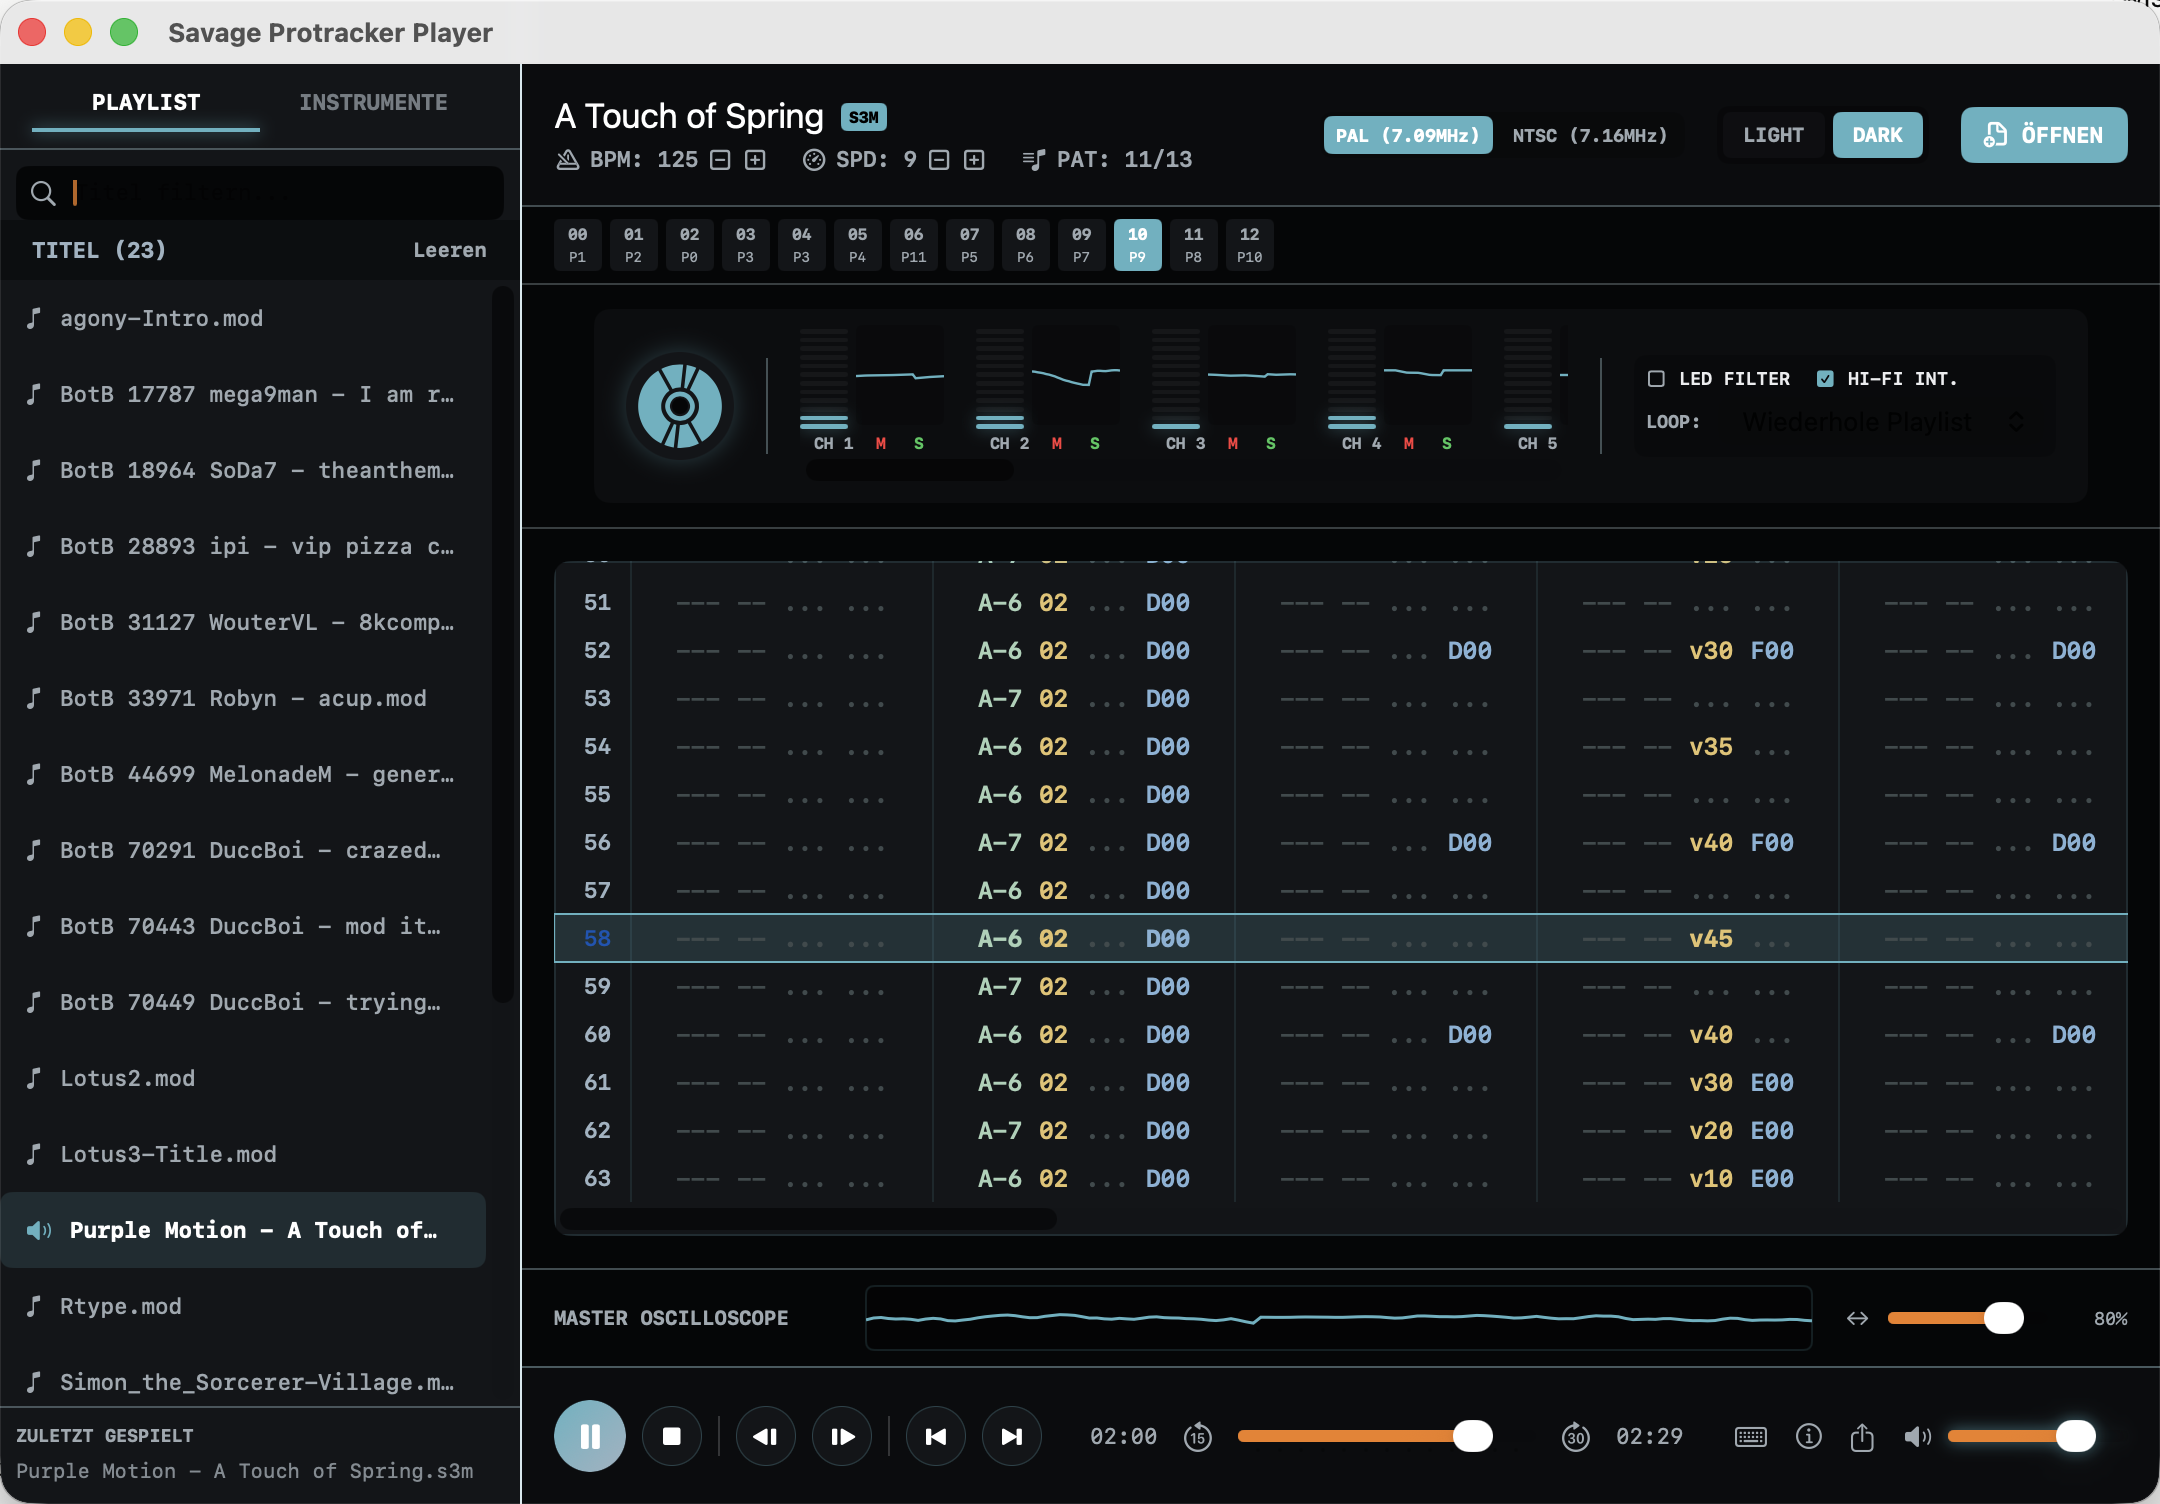
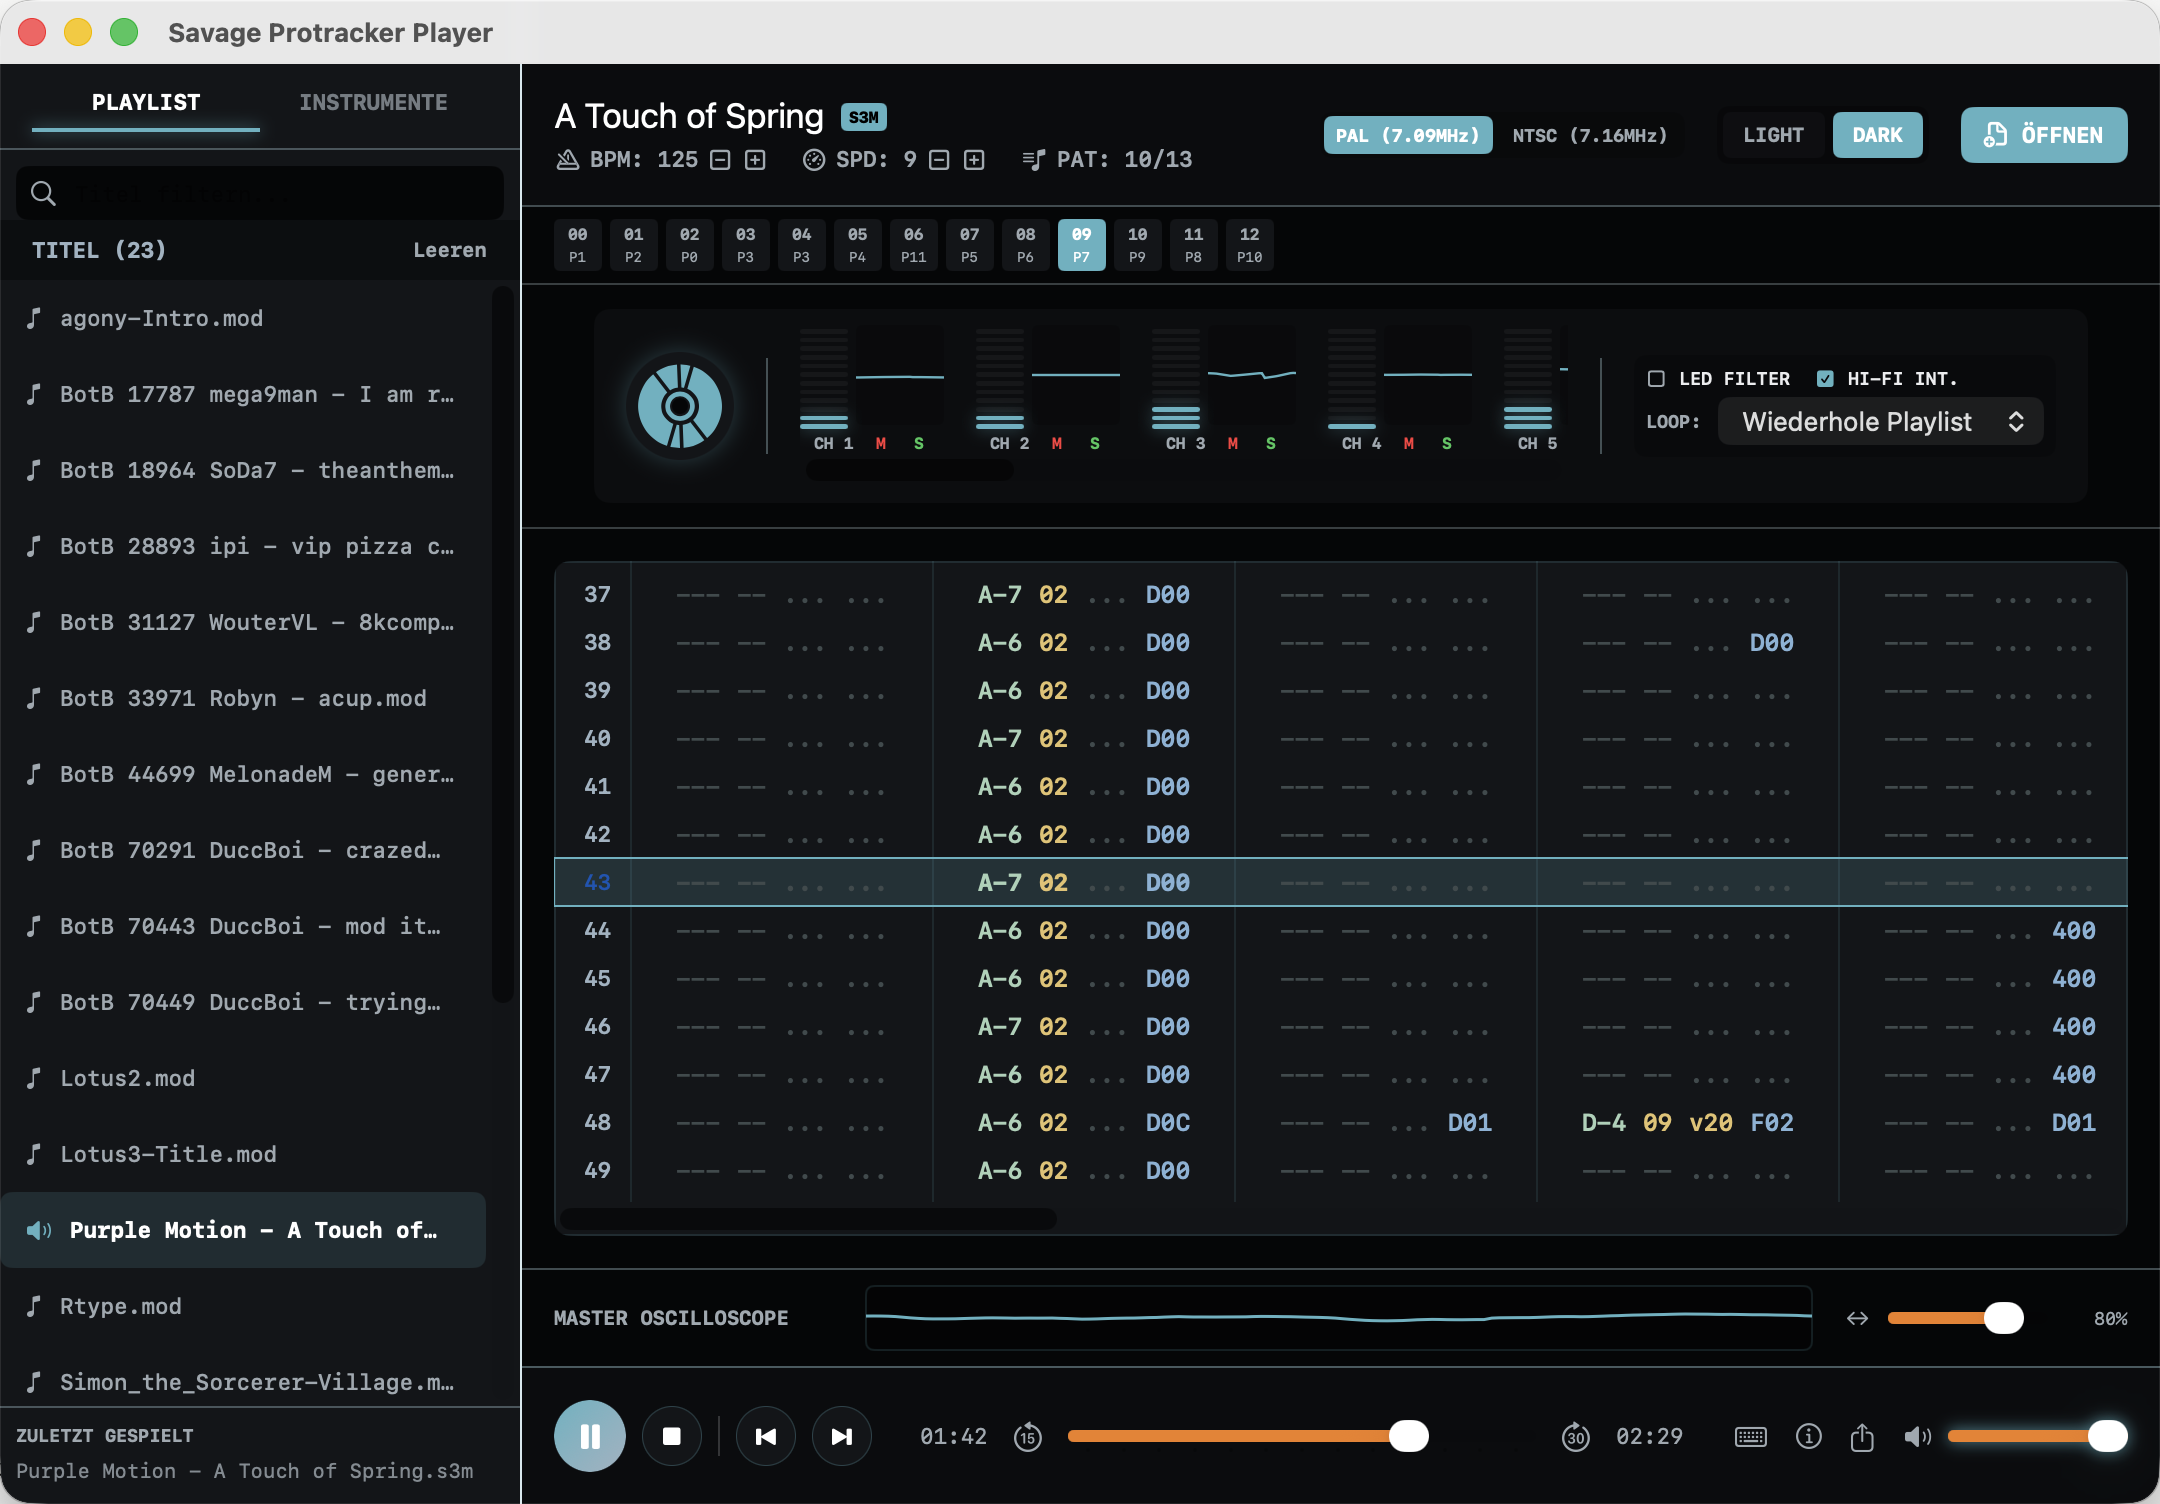
ui: GUI-Feedback-Runde — Media-Tasten, Dropdown-Lesbarkeit, Detail-Fixes
- Media-Tasten (F7/F8/F9, Touch Bar, AirPods): App registriert sich via
  MPRemoteCommandCenter/MPNowPlayingInfoCenter als Now-Playing-App —
  Play/Pause/Stop und Titel-Spruenge funktionieren systemweit.
- Loop-Dropdown im Dark-Mode lesbar: natives Popup folgt jetzt dem App-Theme
  (colorScheme), nicht mehr dem System-Erscheinungsbild.
- Playlist-Suchfeld: kein Autofokus mehr beim Start (FocusState +
  makeFirstResponder(nil)) — der dauerblinkende Cursor ist weg.
- Disk-Animation stoppt zuverlaessig bei Stop UND Pause (repeatForever wird
  ueber Transaction ohne Animation abgebrochen).
- Positions-Sprungtasten entfernt — Slider + 15s/30s-Spruenge decken das ab,
  MOD/S3M-Positionen sind keine Subtunes.
- Light-Mode: Transport-Buttons in voller Akzentfarbe (wirkten deaktiviert),
  Kanal-Scopes mit weissem Hintergrund wie das Master-Oszilloskop.
- VU-/Scope-/Tracker-Updates laufen waehrend Slider-Drags weiter: VU-Timer
  im .common-RunLoop-Mode (Default-Mode pausiert bei Maus-Drags).
- README-Screenshot (docs/screenshot-dark.png) aktualisiert.

48 Tests gruen; visuell im Dark-Mode verifiziert.

diff --git a/Sources/SavageProtrackerPlayerApp/UI/MainView.swift b/Sources/SavageProtrackerPlayerApp/UI/MainView.swift
@@ -2,6 +2,7 @@ import SwiftUI
 import SavageProtrackerPlayerCore
 import UniformTypeIdentifiers
 import UserNotifications
+import MediaPlayer
 
 final class DropURLsContainer: @unchecked Sendable {
     private let lock = NSLock()
@@ -71,6 +72,10 @@ struct MainView: View {
     // Disk rotation state
     @State private var diskRotation: Double = 0.0
     @State private var isDiskAnimating = false
+    // Fokus-Steuerung des Playlist-Suchfelds (kein Autofokus beim Start).
+    @FocusState private var searchFieldFocused: Bool
+    // MPRemoteCommandCenter nur einmal verdrahten (onAppear kann mehrfach feuern).
+    @State private var mediaCommandsConfigured = false
     
     // Active Preview hover card
     @State private var hoveredInstrumentIndex: Int? = nil
@@ -248,11 +253,18 @@ struct MainView: View {
                 isDiskAnimating = coordinator.isPlaying
                 setupNotifications()
                 installKeyMonitor()
+                setupMediaRemoteCommands()
                 startOrStopDiskSpin()
                 // Gespeicherte Lautstaerke in den Coordinator spiegeln, damit der
                 // erste play()-Aufruf sie auf den Mixer anwenden kann.
                 coordinator.setVolume(Float(volume))
                 loadLocalAudioFolder()
+                // Autofokus des Suchfelds wieder wegnehmen — macOS setzt den
+                // First Responder erst nach dem Fensteraufbau, daher verzoegert.
+                DispatchQueue.main.async {
+                    searchFieldFocused = false
+                    NSApp.keyWindow?.makeFirstResponder(nil)
+                }
             }
             .onDisappear {
                 removeKeyMonitor()
@@ -283,6 +295,21 @@ struct MainView: View {
             .onReceive(NotificationCenter.default.publisher(for: NSNotification.Name("menuStop"))) { _ in
                 stopPlayback()
             }
+            // Media-Tasten: explizites Play/Pause (im Gegensatz zum Toggle).
+            .onReceive(NotificationCenter.default.publisher(for: NSNotification.Name("mediaPlay"))) { _ in
+                if coordinator.isPaused {
+                    coordinator.resume()
+                } else if !coordinator.isPlaying {
+                    togglePlayback()
+                }
+            }
+            .onReceive(NotificationCenter.default.publisher(for: NSNotification.Name("mediaPause"))) { _ in
+                coordinator.pause()
+            }
+            // "Now Playing"-Infos fuer die Media-Tasten-Zuordnung aktuell halten.
+            .onChange(of: coordinator.isPaused) { _ in updateNowPlayingInfo() }
+            .onChange(of: coordinator.isPlaying) { _ in updateNowPlayingInfo() }
+            .onChange(of: coordinator.trackName) { _ in updateNowPlayingInfo() }
             .onReceive(NotificationCenter.default.publisher(for: NSNotification.Name("menuNextTrack"))) { _ in
                 nextTrack()
             }
@@ -327,12 +354,6 @@ struct MainView: View {
 
     private func stopPlayback() {
         coordinator.stop()
-    }
-
-    // Eine Song-Position (Pattern-Eintrag der Playlist) vor/zurueck springen.
-    private func seekPosition(by delta: Int) {
-        guard coordinator.isPlaying else { return }
-        coordinator.seek(toPosition: coordinator.currentPosition + delta)
     }
 
     private func nextTrack() {
@@ -577,8 +598,14 @@ struct MainView: View {
                     .stroke(theme == .workbench ? Color.amigaOrange : Color.spaceAccent, lineWidth: 1.2)
                 }
                 .frame(width: 44, height: 50)
-                .background(Color.black.opacity(0.2))
+                // Wie das Master-Oszilloskop: im Light-Mode weisser Hintergrund
+                // mit dezentem Rahmen (einheitliche Scope-Optik).
+                .background(theme == .workbench ? Color.white : Color.black.opacity(0.2))
                 .cornerRadius(3)
+                .overlay(
+                    RoundedRectangle(cornerRadius: 3)
+                        .stroke(theme == .workbench ? Color.amigaGrey.opacity(0.35) : Color.clear, lineWidth: 1)
+                )
             }
 
             HStack(spacing: 8) {
@@ -615,13 +642,19 @@ struct MainView: View {
     // kein run-loop-Timer, der leakt und im Idle CPU/Akku frisst.
     private func startOrStopDiskSpin() {
         #if os(macOS)
-        if coordinator.isPlaying {
+        // isDiskAnimating (statt coordinator.isPlaying) beruecksichtigt auch
+        // Pause: die Disk steht, sobald kein Ton laeuft.
+        if isDiskAnimating {
             diskRotation = 0
             withAnimation(.linear(duration: 2.7).repeatForever(autoreverses: false)) {
                 diskRotation = 360
             }
         } else {
-            withAnimation(.easeOut(duration: 0.3)) {
+            // repeatForever zuverlaessig abbrechen: Wert OHNE Animation setzen
+            // (ein withAnimation-Override liess die Drehung teils weiterlaufen).
+            var transaction = Transaction()
+            transaction.disablesAnimations = true
+            withTransaction(transaction) {
                 diskRotation = 0
             }
         }
@@ -667,6 +700,64 @@ struct MainView: View {
             keyMonitor = nil
         }
         #endif
+    }
+
+    // MARK: - Media-Tasten (F7/F8/F9 bzw. Touch Bar / AirPods)
+    // Registriert die App im System als "Now Playing"-App: Play/Pause- und
+    // Titel-Sprung-Kommandos der Media-Tasten landen dann hier. Die Handler
+    // posten dieselben Notifications wie die Menuepunkte — die onReceive-
+    // Blöcke oben verarbeiten beide Quellen einheitlich auf dem Main-Thread.
+    private func setupMediaRemoteCommands() {
+        guard !mediaCommandsConfigured else { return }
+        mediaCommandsConfigured = true
+
+        let center = MPRemoteCommandCenter.shared()
+        center.togglePlayPauseCommand.addTarget { _ in
+            NotificationCenter.default.post(name: NSNotification.Name("menuPlayStop"), object: nil)
+            return .success
+        }
+        center.playCommand.addTarget { _ in
+            NotificationCenter.default.post(name: NSNotification.Name("mediaPlay"), object: nil)
+            return .success
+        }
+        center.pauseCommand.addTarget { _ in
+            NotificationCenter.default.post(name: NSNotification.Name("mediaPause"), object: nil)
+            return .success
+        }
+        center.stopCommand.addTarget { _ in
+            NotificationCenter.default.post(name: NSNotification.Name("menuStop"), object: nil)
+            return .success
+        }
+        center.nextTrackCommand.addTarget { _ in
+            NotificationCenter.default.post(name: NSNotification.Name("menuNextTrack"), object: nil)
+            return .success
+        }
+        center.previousTrackCommand.addTarget { _ in
+            NotificationCenter.default.post(name: NSNotification.Name("menuPrevTrack"), object: nil)
+            return .success
+        }
+    }
+
+    // Haelt die "Now Playing"-Infos des Systems aktuell (Titel, Dauer,
+    // Position, laeuft/pausiert) — Voraussetzung dafuer, dass die Media-Tasten
+    // an diese App geroutet werden.
+    private func updateNowPlayingInfo() {
+        let infoCenter = MPNowPlayingInfoCenter.default()
+        guard coordinator.activeMod != nil else {
+            infoCenter.nowPlayingInfo = nil
+            infoCenter.playbackState = .stopped
+            return
+        }
+        let activelyPlaying = coordinator.isPlaying && !coordinator.isPaused
+        infoCenter.nowPlayingInfo = [
+            MPMediaItemPropertyTitle: coordinator.trackName,
+            MPMediaItemPropertyPlaybackDuration: coordinator.totalDuration,
+            MPNowPlayingInfoPropertyElapsedPlaybackTime: coordinator.elapsedTime,
+            MPNowPlayingInfoPropertyPlaybackRate: activelyPlaying ? 1.0 : 0.0
+        ]
+        infoCenter.playbackState = coordinator.isPlaying
+            ? (coordinator.isPaused ? .paused : .playing)
+            : .stopped
     }
 
     // MARK: - Notification helper
@@ -775,6 +866,10 @@ struct MainView: View {
                 TextField("Titel filtern...", text: $playlistSearchQuery)
                     .textFieldStyle(PlainTextFieldStyle())
                     .font(.system(size: 11, design: .monospaced))
+                    // Kein Autofokus: macOS macht das erste Textfeld sonst zum
+                    // First Responder und der Cursor blinkt dauerhaft in der
+                    // Sidebar. Fokus bekommt das Feld erst per Klick.
+                    .focused($searchFieldFocused)
                 if !playlistSearchQuery.isEmpty {
                     Button(action: { playlistSearchQuery = "" }) {
                         Image(systemName: "xmark.circle.fill")
@@ -1227,6 +1322,10 @@ struct MainView: View {
                     .pickerStyle(DefaultPickerStyle())
                     .labelsHidden()
                     .fixedSize()
+                    // Das native Popup folgt sonst dem System-Erscheinungsbild:
+                    // Im Dark-Theme der App war der gewaehlte Wert auf hellem
+                    // System kaum lesbar. Control-Optik ans App-Theme koppeln.
+                    .colorScheme(theme == .workbench ? .light : .dark)
                     .help("Was nach dem Songende passiert: Playlist fortsetzen, den Song wiederholen oder stoppen.")
                 }
             }
@@ -1443,8 +1542,10 @@ struct MainView: View {
                     .fill(Color.spaceSurface)
                     .overlay(Circle().stroke(Color.spaceAccent.opacity(0.3), lineWidth: 1))
             } else {
+                // Volle Akzentfarbe wie der Play-Button — das abgeschwaechte
+                // Orange sah im Light-Mode wie "deaktiviert" aus.
                 Rectangle()
-                    .fill(Color.amigaOrange.opacity(0.3))
+                    .fill(Color.amigaOrange)
             }
             Image(systemName: systemName)
                 .font(.system(size: 11))
@@ -1501,30 +1602,6 @@ struct MainView: View {
                 .cornerRadius(theme == .workbench ? 0 : 15)
                 .disabled(!coordinator.isPlaying)
                 .help("Stopp: Wiedergabe beenden — der nächste Start beginnt wieder am Songanfang.")
-
-                Divider()
-                    .frame(height: 20)
-
-                // Song-Position zurueck/vor (Pattern-Eintraege innerhalb des Songs)
-                Button(action: {
-                    seekPosition(by: -1)
-                }) {
-                    transportButtonLabel(systemName: "backward.frame.fill")
-                }
-                .buttonStyle(PremiumHoverButtonStyle(theme: theme))
-                .cornerRadius(theme == .workbench ? 0 : 15)
-                .disabled(!coordinator.isPlaying)
-                .help("Eine Song-Position zurückspringen (Pattern-Eintrag innerhalb des Songs).")
-
-                Button(action: {
-                    seekPosition(by: 1)
-                }) {
-                    transportButtonLabel(systemName: "forward.frame.fill")
-                }
-                .buttonStyle(PremiumHoverButtonStyle(theme: theme))
-                .cornerRadius(theme == .workbench ? 0 : 15)
-                .disabled(!coordinator.isPlaying)
-                .help("Eine Song-Position vorspringen (Pattern-Eintrag innerhalb des Songs).")
 
                 Divider()
                     .frame(height: 20)

diff --git a/Sources/SavageProtrackerPlayerCore/DSP/ModPlayerCoordinator.swift b/Sources/SavageProtrackerPlayerCore/DSP/ModPlayerCoordinator.swift
@@ -577,12 +577,17 @@ public final class ModPlayerCoordinator: ObservableObject {
     }
     
     private func startVUUpdates() {
-        vuUpdateTimer = Timer.scheduledTimer(withTimeInterval: 0.02, repeats: true) { [weak self] _ in
+        let timer = Timer(timeInterval: 0.02, repeats: true) { [weak self] _ in
             guard let self = self else { return }
             Task { @MainActor in
                 self.updateVULevelsTick()
             }
         }
+        // .common statt Default-Mode: der Default-RunLoop-Mode pausiert
+        // waehrend Maus-Drags (Slider, Fenster-Resize) — VU, Scopes und die
+        // Tracker-Ansicht froren dann ein, obwohl der Ton weiterlief.
+        RunLoop.main.add(timer, forMode: .common)
+        vuUpdateTimer = timer
     }
     
     private func stopVUUpdates() {